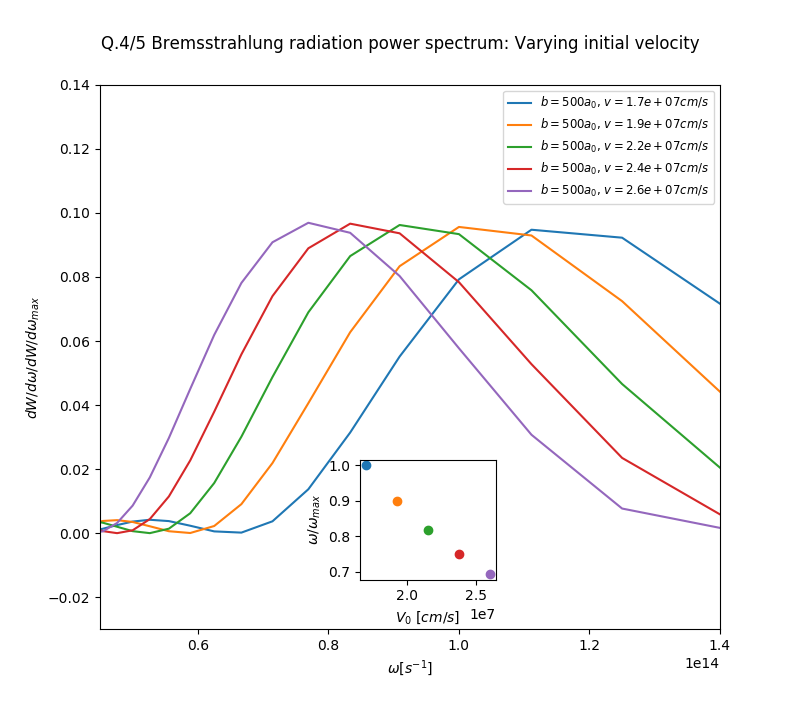
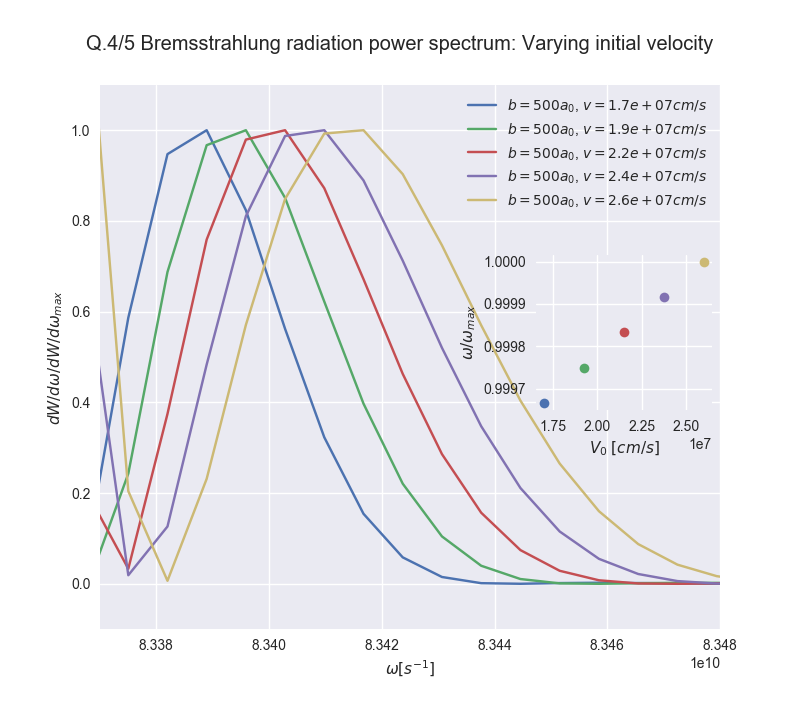
focus on correct(?) frequency range

diff --git a/hw3/brems_rad.py b/hw3/brems_rad.py
@@ -100,7 +100,7 @@ def plot_brems_rad(nb=None, v0=None, n=None, x=None, y=None, vx=None, vy=None,
                    plotpath=False, plotspectrum=False, plotvariation=False, 
                    xlim_w=None, ylim_w=None, figure=None, omega_max=None,
                    ms=2, Z=1, pos=411, varystr=None, savefig=False, panel=True,
-                   varyparam=None, varyaxes=[0.65, 0.42, 0.24, 0.24]):
+                   varyparam=None, varyaxes=[0.67, 0.42, 0.22, 0.22]):
     """
     Plots the path of the electron, the force along the path, the spectrum of 
     the emitted radiation, and the change in peak frequency with impact 
@@ -214,7 +214,7 @@ def plot_brems_rad(nb=None, v0=None, n=None, x=None, y=None, vx=None, vy=None,
 
 
     if plotspectrum:
-        dWdw = dWdw/max(dWdw) # Normalize the spectrum for plotting
+        # dWdw = dWdw/max(dWdw) # Normalize the spectrum for plotting
 
         if newfig:
             fig2 = plt.figure(figsize=(8,8))
@@ -227,6 +227,7 @@ def plot_brems_rad(nb=None, v0=None, n=None, x=None, y=None, vx=None, vy=None,
         plt.ylabel('$dW/d\omega/dW/d\omega _{max}$')
         if xlim_w is not None: plt.xlim(xlim_w)
         if ylim_w is not None: plt.ylim(ylim_w)
+        plt.ylim(-0.1, 1.1)
         plt.xlabel('$\omega[s^{-1}]$')
         plt.legend(numpoints=1, loc=1, fontsize='small')
 
@@ -282,10 +283,11 @@ if __name__ == '__main__':
                         (vx(0), vy(0))' )
     parser.add_argument('--n', action='store', default=12000,
                         type=int, help='Enter number of steps (int)' )
-    parser.add_argument('--xlim', nargs='+', action='store', default=[4.5e13,1.4e14],#[2.76e13,8e13],#[8.3375e10, 8.365e10],
+    parser.add_argument('--xlim', nargs='+', action='store', default=[8.3381e10, 8.348e10],
                         type=float, help='Enter limits of frequency axis \
                         --xlim min max' )
     args = parser.parse_args()
+    #ylim = [0, 2e-8]
 
     if not args.savefig:
         print ('\nFigures will save in code directory \n')
@@ -322,7 +324,7 @@ if __name__ == '__main__':
     
 # ==== Plot power spectrum: vary impact parameter b and initial velocity v0 ====
 
-    b = np.linspace(350, 950, 5); l_b = len(b)
+    b = np.linspace(300, 1500, 5); l_b = len(b)
     v = np.linspace(1.7e7, 2.6e7, 5); l_v = len(v)
 
 
@@ -332,12 +334,13 @@ if __name__ == '__main__':
         newfig=False; savefig=False
         if j==0: newfig=True
         if j==l_b-1: savefig=True
-        
+        xlim=(8.33850e10, 8.348e10)
         r0 = (nb[0]*a0, b[j]*a0)
         dWdw, omega, t, x, y, vx, vy, ax, ay, fx, fy = calc_brems_rad(n, r0, v0, dt, nb)
 
         omega_max, dWdw_max = find_freq_peak(omega, xlim, dWdw) # get peak freq
         omega_max_b.append(omega_max)
+        dWdw = dWdw/dWdw_max # normalize spectrum
 
         fig_b = plot_brems_rad((nb[0], b[j]), v0, dWdw=dWdw, omega=omega, 
                         newfig=newfig, plotspectrum=True, omega_b=omega_max, 
@@ -362,12 +365,13 @@ if __name__ == '__main__':
         newfig=False; savefig=False
         if j==0: newfig=True
         if j==l_v-1: savefig=True
-        
+        xlim=(8.3370e10, 8.348e10)
         v0 = (v[j], v0[1])
         dWdw, omega, t, x, y, vx, vy, ax, ay, fx, fy = calc_brems_rad(n, r0, v0, dt, nb)
         
         omega_max, dWdw_max = find_freq_peak(omega, xlim, dWdw) # get peak freq
         omega_max_v.append(omega_max)
+        dWdw = dWdw/dWdw_max # normalize spectrum
         
         fig_v = plot_brems_rad(nb, v0, dWdw=dWdw, omega=omega, newfig=newfig, 
                         plotspectrum=True, xlim_w=xlim, panel=False, 
@@ -379,7 +383,7 @@ if __name__ == '__main__':
         omega_max = omega_max_v[j]/max(omega_max_v)
         plot_brems_rad(b=b, v=v[j], omega_max=omega_max, plotvariation=True, 
                     savefig=savefig, figure=figvary, varyparam=v[j], 
-                    varyaxes=[0.45, 0.18, 0.17, 0.17], varystr=varystr)
+                    varystr=varystr)#,varyaxes=[0.45, 0.18, 0.17, 0.17])
 
     print ('===> Radiation power spectrum varying initial velocity plots '
             'saved to \'3_spec_vary_v.png\' ')
